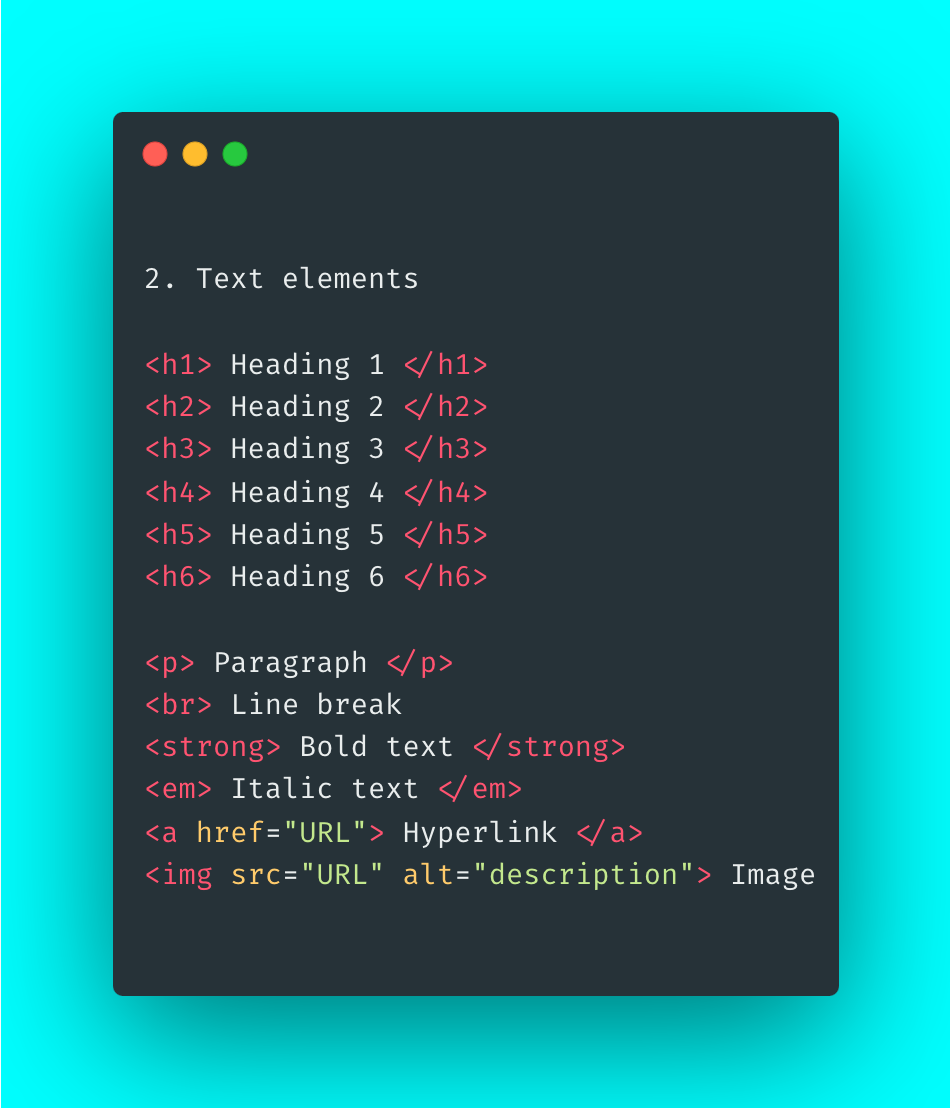
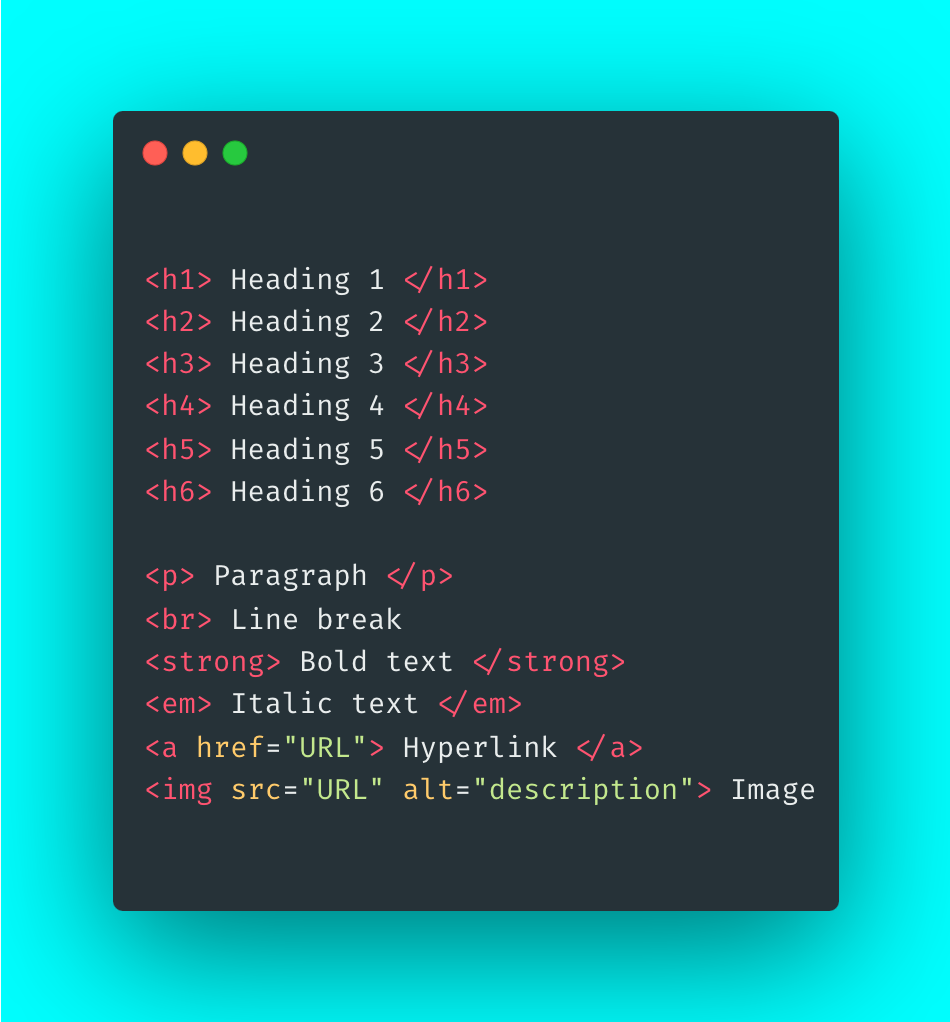
small visual changes

Changed region(s): [[0.1526, 0.2427, 0.8547, 0.819], [0.1221, 0.091, 0.8853, 0.182], [0.1221, 0.8796, 0.8853, 0.91]]

diff --git a/pages/cheatsheet.html b/pages/cheatsheet.html
@@ -27,7 +27,7 @@
 </head>
 
 <body>
-    <h1 class="aqua"> 2. Text elements </h1>
+    <h1 class="aqua"> Text elements </h1>
     <div class="flex-container">
 
         <div class="image">
